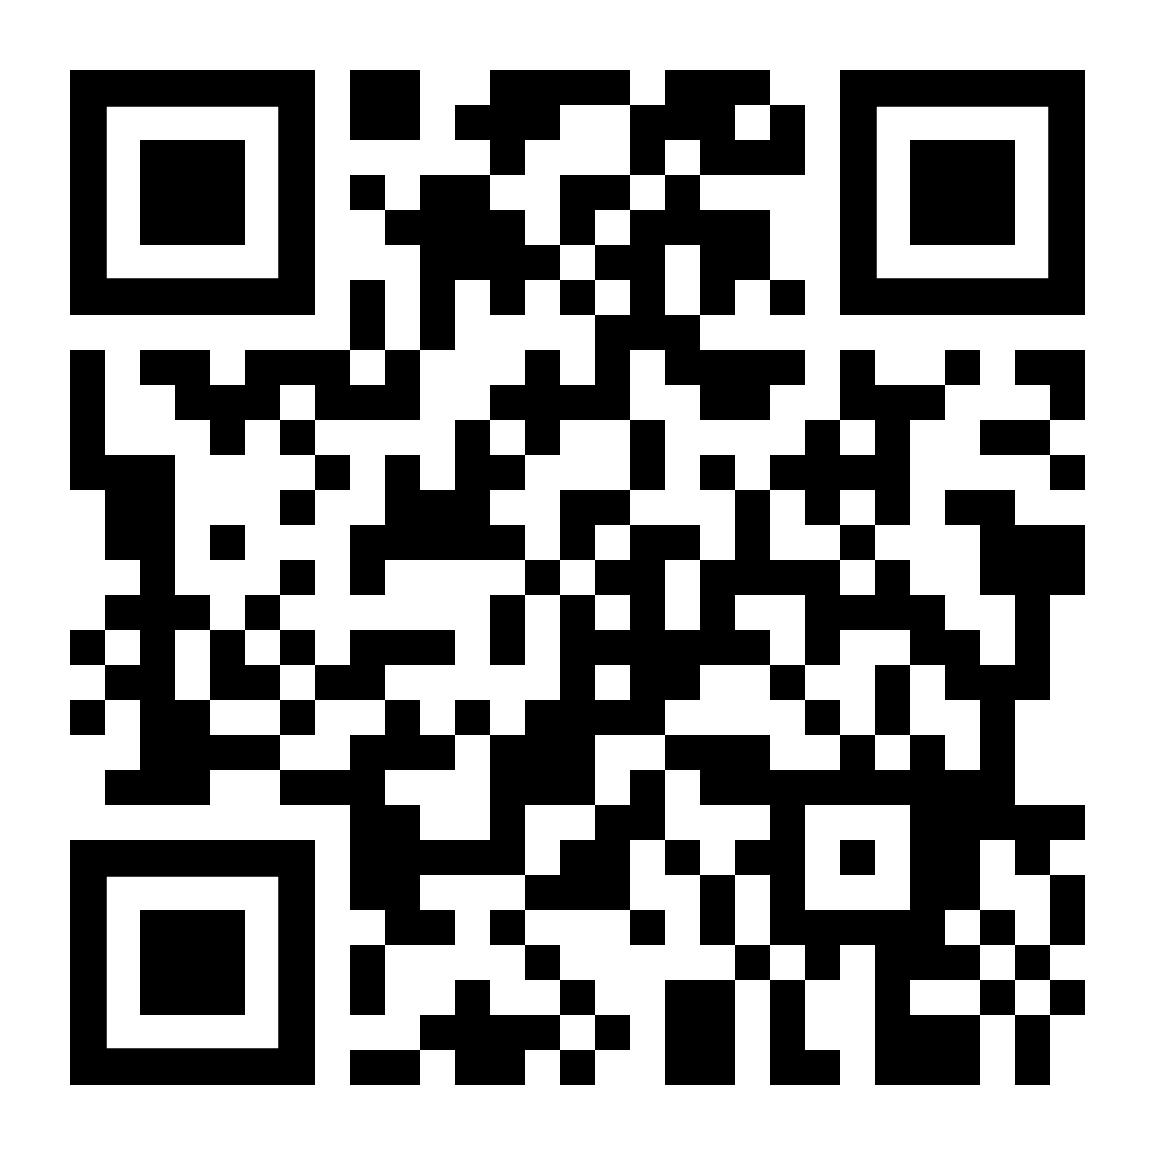
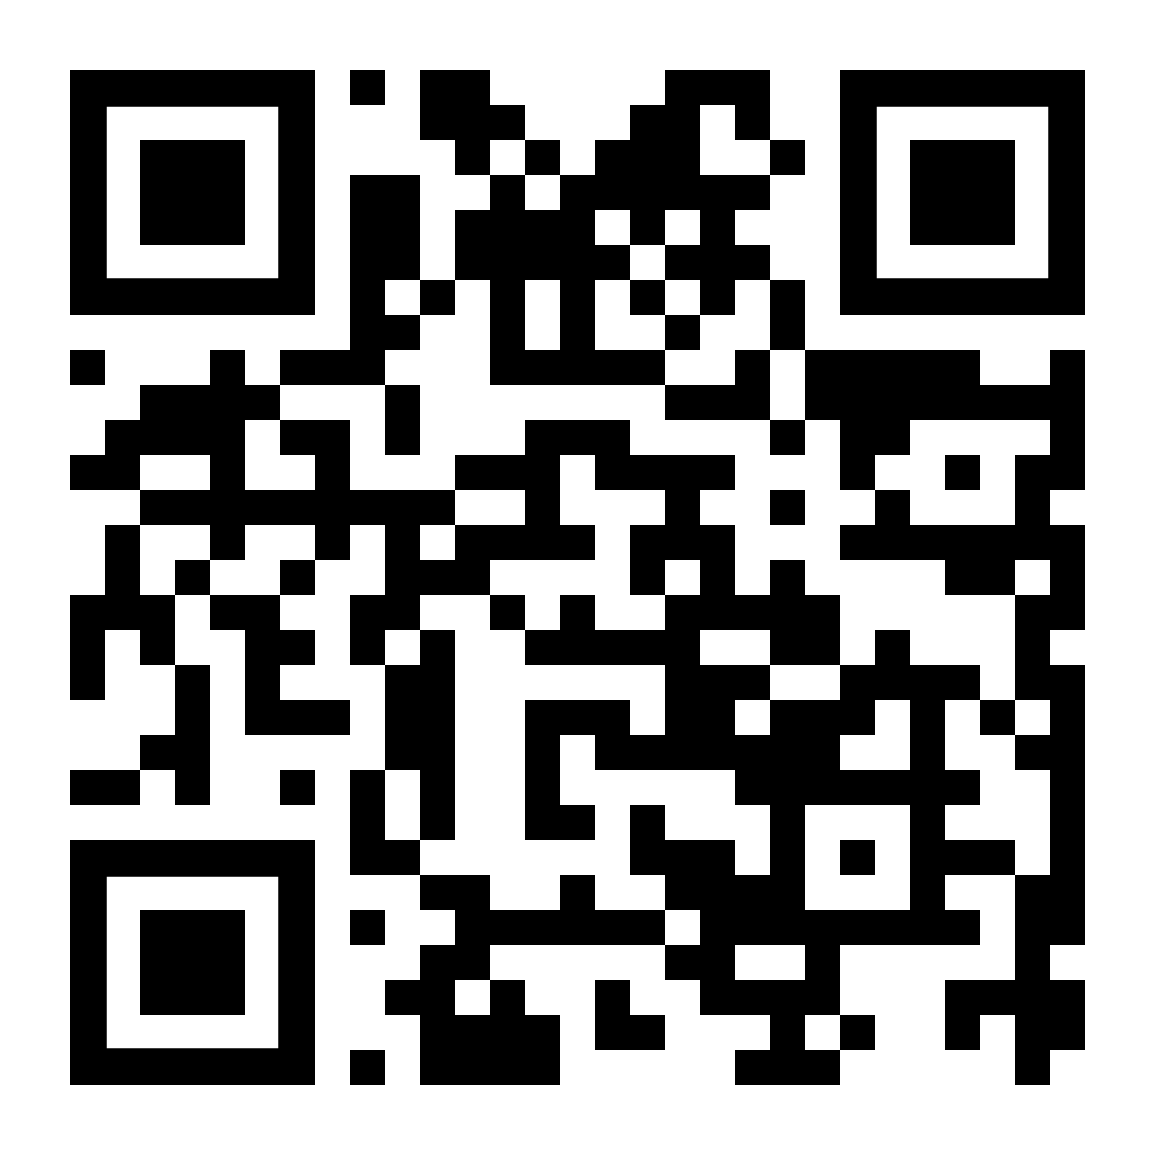
whiskey up

Changed region(s): [[0.0623, 0.0623, 0.9662, 0.9662]]

diff --git a/FS2006_15.html b/FS2006_15.html
@@ -4,9 +4,9 @@
 <head>
 	<meta charset="utf-8">
 
-	<title>Food Technology, Culture & Ethics 1</title>
+	<title>Whiskey</title>
 
-	<meta name="description" content="Protein Fractionation">
+	<meta name="description" content="Whiskey making">
 	<meta name="author" content="Shane Crowley">
 
 	<meta name="apple-mobile-web-app-capable" content="yes" />
@@ -68,13 +68,13 @@
 			<section>
 				<p> Links to <b>video</b> below:
 					<br>
-					<a href="https://youtu.be/fyo4d-tcDMQ">👉<i>https://youtu.be/fyo4d-tcDMQ</i></a>
+					<a href="https://youtu.be/WOiUmNBKomU">👉<i>https://youtu.be/WOiUmNBKomU</i></a>
 				</p>
 
-				<img title="Scan me with your phone!" src="img/qr_fs2006_15yt.png" alt="if you don't see a QR code click the link" style="height: 340px; margin: 0 auto 4rem auto; background: transparent;" class="qr_code">
+				<img title="Scan me with your phone!" data-src="img/qr_fs2006_15yt.png" alt="if you don't see a QR code click the link" style="height: 340px; margin: 0 auto 4rem auto; background: transparent;" class="qr_code">
 					<br>
-                    <br>
-                    <a href="https://edibotopic.github.io/lecture-slides/FS2006_15.html?print-pdf" title="For your added convenience">Click for print version (not recommended)👈</a>
+                    <!-- <br> -->
+                    <!-- <a href="https://edibotopic.github.io/lecture-slides/FS2006_15.html?print-pdf" title="For your added convenience">Click for print version (not recommended)👈</a> -->
 			</section>
 
             <section>
@@ -275,7 +275,7 @@
 
 			<section>
 				<h3><strong>Next Lecture</strong> <br> </h3>
-				<p><i>Live Q&A</i></p>
+				<p><i>Bulk Solids</i></p>
 				
 				<a href="mailto:shane.crowley@ucc.ie">shane.crowley@ucc.ie</p>
 					<a href="mailto:shane.crowley@ucc.ie">

diff --git a/index.md b/index.md
@@ -63,29 +63,29 @@ Lecture#2: [Food Physics II](http://edibotopic.github.io/lecture-slides/FS2006_2
 
 <!-- Lecture#3: [Engineering Principles I](http://edibotopic.github.io/lecture-slides/FS2006_3.html) -->
 
-Lecture#4: [Engineering Principles I](http://edibotopic.github.io/lecture-slides/FS2006_4.html)
+Lecture#3: [Engineering Principles I](http://edibotopic.github.io/lecture-slides/FS2006_4.html)
 
-Lecture#5: [Engineering Principles II](http://edibotopic.github.io/lecture-slides/FS2006_5.html)
+Lecture#4: [Engineering Principles II](http://edibotopic.github.io/lecture-slides/FS2006_5.html)
 
-Lecture#6: [Hydrostatics I](http://edibotopic.github.io/lecture-slides/FS2006_6.html)
+Lecture#5: [Hydrostatics I](http://edibotopic.github.io/lecture-slides/FS2006_6.html)
 
-Lecture#7: [Hydrostatics II](http://edibotopic.github.io/lecture-slides/FS2006_8.html)
+Lecture#6: [Hydrostatics II](http://edibotopic.github.io/lecture-slides/FS2006_8.html)
 
 <!-- Lecture#7: [Intermission: Excel Basics](http://edibotopic.github.io/lecture-slides/FS2006_7.html) -->
 
-Lecture#9: [Hydrodynamics I](http://edibotopic.github.io/lecture-slides/FS2006_9.html)
+Lecture#7: [Hydrodynamics I](http://edibotopic.github.io/lecture-slides/FS2006_9.html)
 
-Lecture#10: [Hydrodynamics II](http://edibotopic.github.io/lecture-slides/FS2006_10.html)
+Lecture#8: [Hydrodynamics II](http://edibotopic.github.io/lecture-slides/FS2006_10.html)
 
 <!-- Lecture#11: [Intermission: Typing Math](http://edibotopic.github.io/lecture-slides/FS2006_11.html) -->
 
-Lecture#11: [Hydrodynamics III](http://edibotopic.github.io/lecture-slides/FS2006_12.html)
+Lecture#9: [Hydrodynamics III](http://edibotopic.github.io/lecture-slides/FS2006_12.html)
 
-Lecture#12: [Separations I](http://edibotopic.github.io/lecture-slides/fs2006_13.html)
+Lecture#10: [Separations I](http://edibotopic.github.io/lecture-slides/fs2006_13.html)
 
-Lecture#13: [Separations II](http://edibotopic.github.io/lecture-slides/FS2006_14.html)
+Lecture#11: [Separations II](http://edibotopic.github.io/lecture-slides/FS2006_14.html)
 
-<!-- Lecture#15: [Separations III](http://edibotopic.github.io/lecture-slides/FS2006_15.html) -->
+Lecture#12: [Separations III](http://edibotopic.github.io/lecture-slides/FS2006_15.html)
 
 <!-- Lecture#16: [Evaporation, Bulk Solids, Industry 4.0](http://edibotopic.github.io/lecture-slides/FS2006_16.html) -->
 
